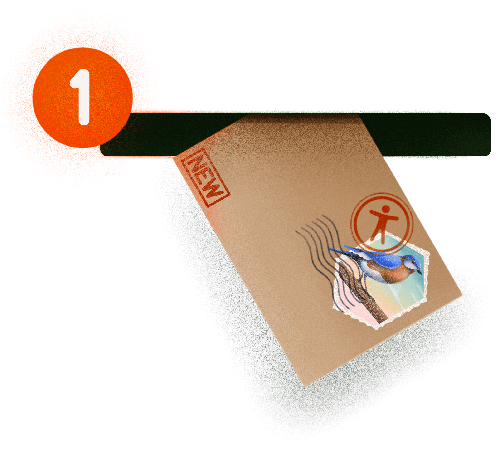
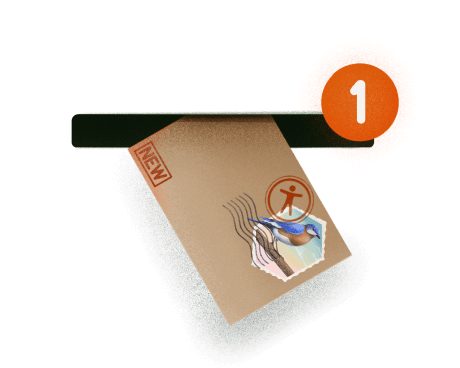
update(pages): design

diff --git a/apps/testingaccessibility/src/pages/thanks/purchase.tsx b/apps/testingaccessibility/src/pages/thanks/purchase.tsx
@@ -32,13 +32,13 @@ const ThanksVerify: React.FC<{name: string; email: string}> = ({
   email,
 }) => {
   return (
-    <Layout className="bg-green-700 bg-noise">
+    <Layout footer={null} className="bg-green-700 bg-noise">
       <main className="flex flex-col flex-grow items-center justify-center pt-5 pb-16 px-5 text-white">
         <div className="flex flex-col max-w-screen-md mx-auto w-full gap-5 items-center text-center">
           <Image
             priority
-            width={500 / 2.25}
-            height={451 / 2.25}
+            width={460 / 2}
+            height={368 / 2}
             quality={100}
             placeholder="blur"
             src={NewMailImage}

diff --git a/apps/testingaccessibility/src/pages/confirm.tsx b/apps/testingaccessibility/src/pages/confirm.tsx
@@ -13,8 +13,8 @@ const Confirm = () => (
       <div className="flex flex-col max-w-lg mx-auto w-full gap-5 items-center text-center">
         <Image
           priority
-          width={500 / 2.25}
-          height={451 / 2.25}
+          width={460 / 2}
+          height={368 / 2}
           quality={100}
           placeholder="blur"
           src={NewMailImage}
